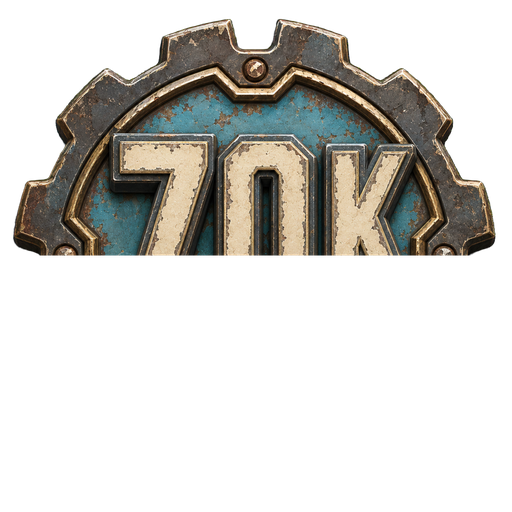
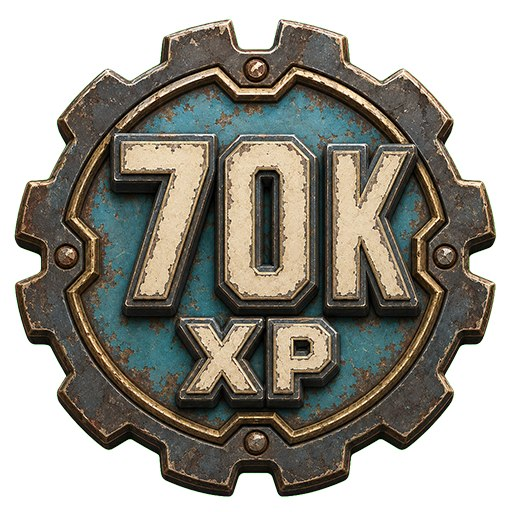
Fix 70K XP badge public image

diff --git a/src/main.jsx b/src/main.jsx
@@ -7,8 +7,12 @@ const autosaveKey = 'quest-json-editor:last-config';
 const backupsKey = 'quest-json-editor:local-backups';
 const aiBrainSuggestionsKey = 'quest-json-editor:ai-brain-suggestions:v1';
 const mapKey = (fileName) => `quest-json-editor-map:v3-cross-quest-access:${fileName || 'default'}`;
-const APP_VERSION = 'v1.1.0-beta.25';
+const APP_VERSION = 'v1.1.0-beta.26';
 const CHANGELOG = [
+  { version: 'v1.1.0-beta.26', date: '2026-09-20', items: [
+    'Re-uploaded the 70,000 XP badge to Freeimage and updated the XP badge manifest so exported command rewards use the corrected public image URL.',
+    'Replaced the local 70K XP badge preview with the corrected 512×512 source image.'
+  ] },
   { version: 'v1.1.0-beta.25', date: '2026-09-20', items: [
     'Changed fullscreen reward cards to show the full reward image with object-fit: contain instead of cropping the top/bottom of wide badges.'
   ] },
